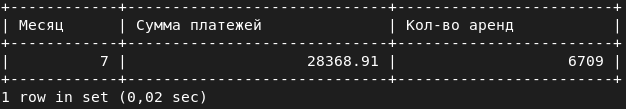
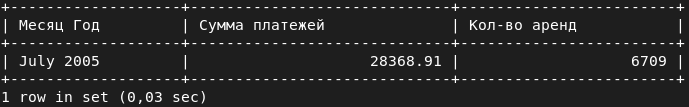
4

diff --git a/12.04 «SQL. Часть 2».md b/12.04 «SQL. Часть 2».md
@@ -60,13 +60,13 @@ WHERE
 ### *Ответ*:
 ```sql
 SELECT
-	MONTH(payment_date) AS "Месяц",
+	date_format(payment_date, '%M %Y') AS "Месяц Год",
 	sum(amount) AS "Сумма платежей",
 	count(payment_id) AS "Кол-во аренд"
 FROM
 	payment
 GROUP BY
-	MONTH(payment_date)
+	date_format(payment_date, '%M %Y')
 ORDER BY
 	sum(amount) DESC
 LIMIT 1;
